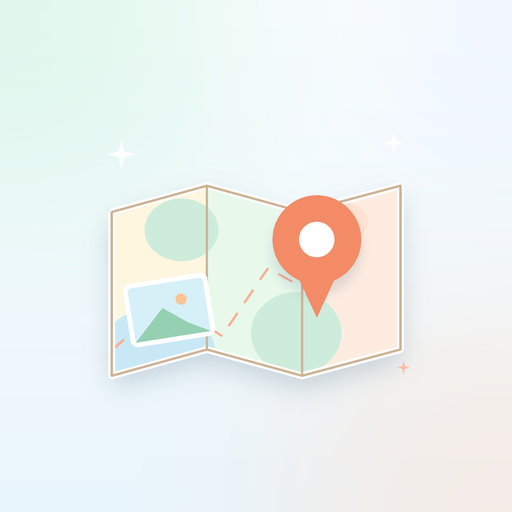
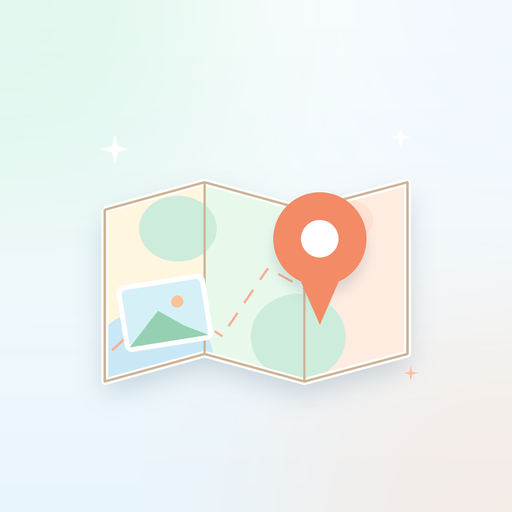
maskable 아이콘 아트워크를 안전 영역 안에서 조금 크게

Changed region(s): [[0.1875, 0.3438, 0.8125, 0.75], [0.5312, 0.4375, 0.5938, 0.5], [0.2812, 0.4688, 0.3125, 0.5]]

diff --git a/tools/make_icons.py b/tools/make_icons.py
@@ -227,7 +227,7 @@ def main():
     os.makedirs(OUT, exist_ok=True)
     icons = {
         "icon-512.png": make_icon(rounded=True),
-        "icon-maskable-512.png": make_icon(rounded=False, scale=0.82),
+        "icon-maskable-512.png": make_icon(rounded=False, scale=0.86),
     }
     icons["icon-192.png"] = icons["icon-512.png"].resize((192, 192), Image.LANCZOS)
     for name, im in icons.items():
